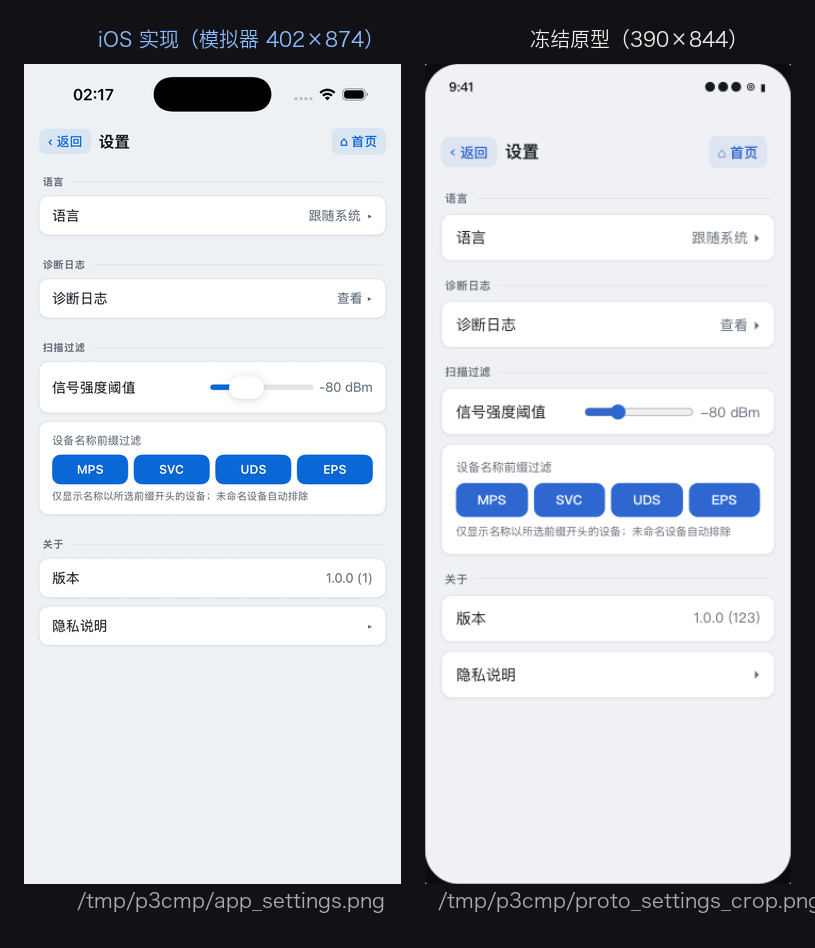
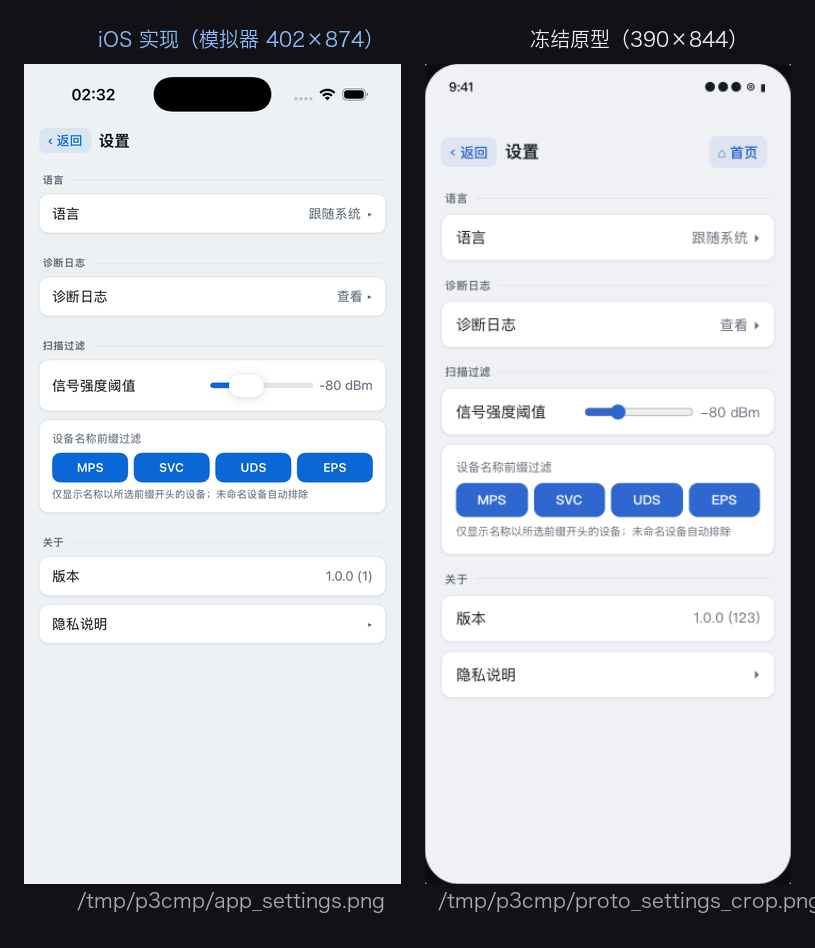
fix(ios): settings + log pages drop the home button (user ruling 2026-09-10)
Same ruling as privacy page: second-level pages have no jump-to-home
scenario; prototype navbar showHome was a leftover. Spec card §1/§2 updated.
Settings comparison refreshed; log page navbar now keeps only Export.

diff --git a/HKT-BLETools/ios/App/SettingsView.swift b/HKT-BLETools/ios/App/SettingsView.swift
@@ -15,10 +15,11 @@ struct SettingsView: View {
 
     var body: some View {
         VStack(spacing: 0) {
+            // 用户 2026-09-10 裁决：二级页不显示「⌂ 首页」（与隐私页一致）
             NavbarHeader(title: zh ? "设置" : "Settings",
                          backText: zh ? "‹ 返回" : "‹ Back",
                          onBack: { dismiss() }) {
-                LinkButton(title: zh ? "⌂ 首页" : "⌂ Home") { dismiss() }
+                EmptyView()
             }
             ScrollView {
                 settingsContent
@@ -139,13 +140,11 @@ struct LogView: View {
 
     var body: some View {
         VStack(spacing: 0) {
+            // 用户 2026-09-10 裁决：二级页不显示「⌂ 首页」（与设置页一致）
             NavbarHeader(title: zh ? "诊断日志" : "Diagnostic Log",
                          backText: zh ? "‹ 返回" : "‹ Back",
                          onBack: { dismiss() }) {
-                HStack(spacing: 8) {
-                    LinkButton(title: zh ? "⌂ 首页" : "⌂ Home") { dismiss() }
-                    LinkButton(title: zh ? "导出" : "Export") { /* 真实 txt 导出随诊断里程碑接入 */ }
-                }
+                LinkButton(title: zh ? "导出" : "Export") { /* 真实 txt 导出随诊断里程碑接入 */ }
             }
             logContent
         }

diff --git a/HKT-BLETools/docs/ios/design/ui-spec/P-07_settings_log.md b/HKT-BLETools/docs/ios/design/ui-spec/P-07_settings_log.md
@@ -9,7 +9,7 @@
 ## 1. 设置页结构（navbar.small + body padding 0 16 24）
 
 ```
-navbar.small：back 胶囊「‹ 返回」+ 标题「设置」(17px/700)
+navbar.small：back 胶囊「‹ 返回」+ 标题「设置」（无首页按钮，用户 2026-09-10 裁决：二级页不显示）
 body
   ├─ section「语言」
   │    └─ row：label「语言」 + value「跟随系统 ▸」(点击循环 跟随系统→简体中文→English)
@@ -37,7 +37,7 @@ body
 ## 2. 日志页结构
 
 ```
-navbar.small：back 胶囊 + 标题「诊断日志」+ navright linkbtn「导出」
+navbar.small：back 胶囊 + 标题「诊断日志」+ navright linkbtn「导出」（无首页按钮，同 §1 裁决）
 body：日志行 ×N（或 空态「暂无日志」kv 居中 padding 30）
 ```
 
